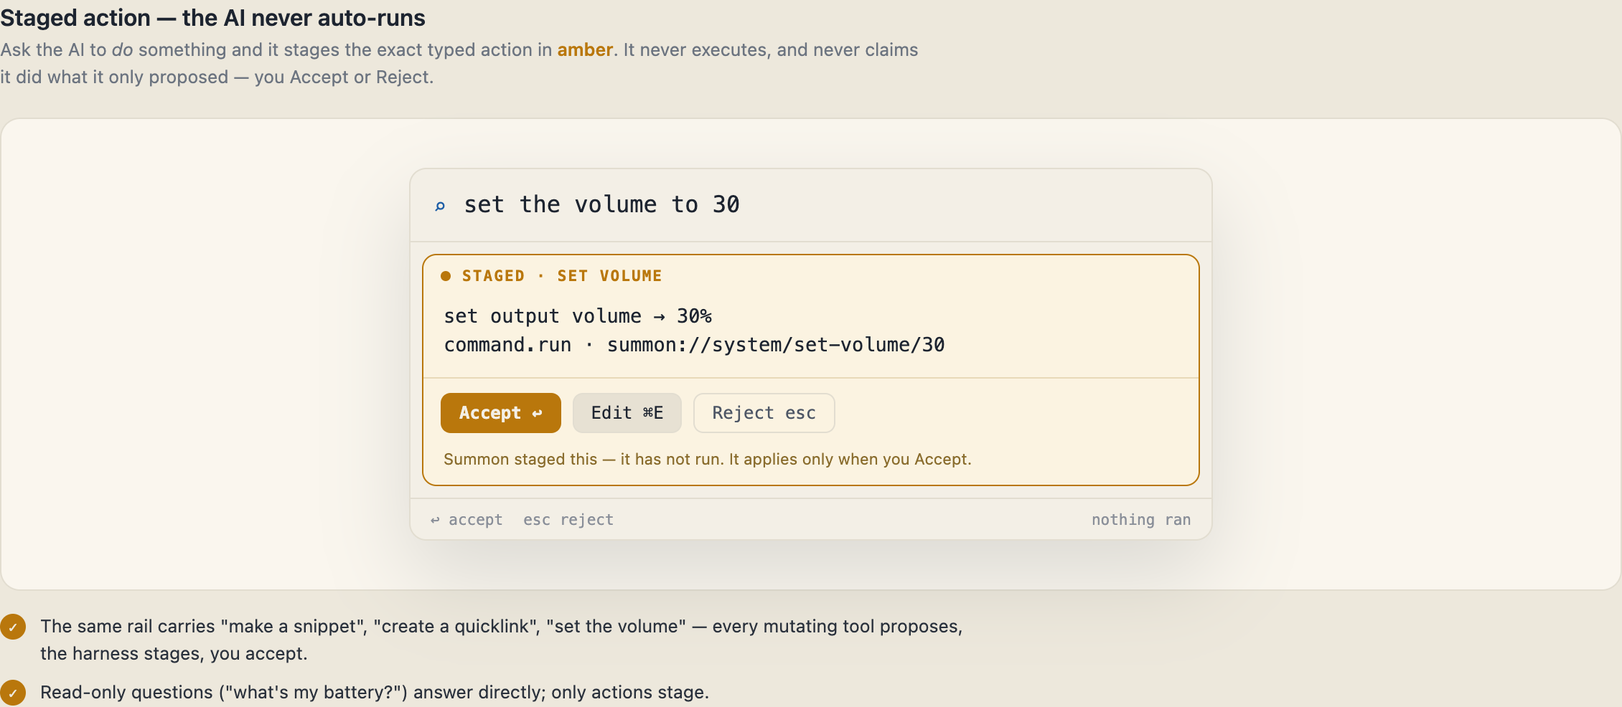
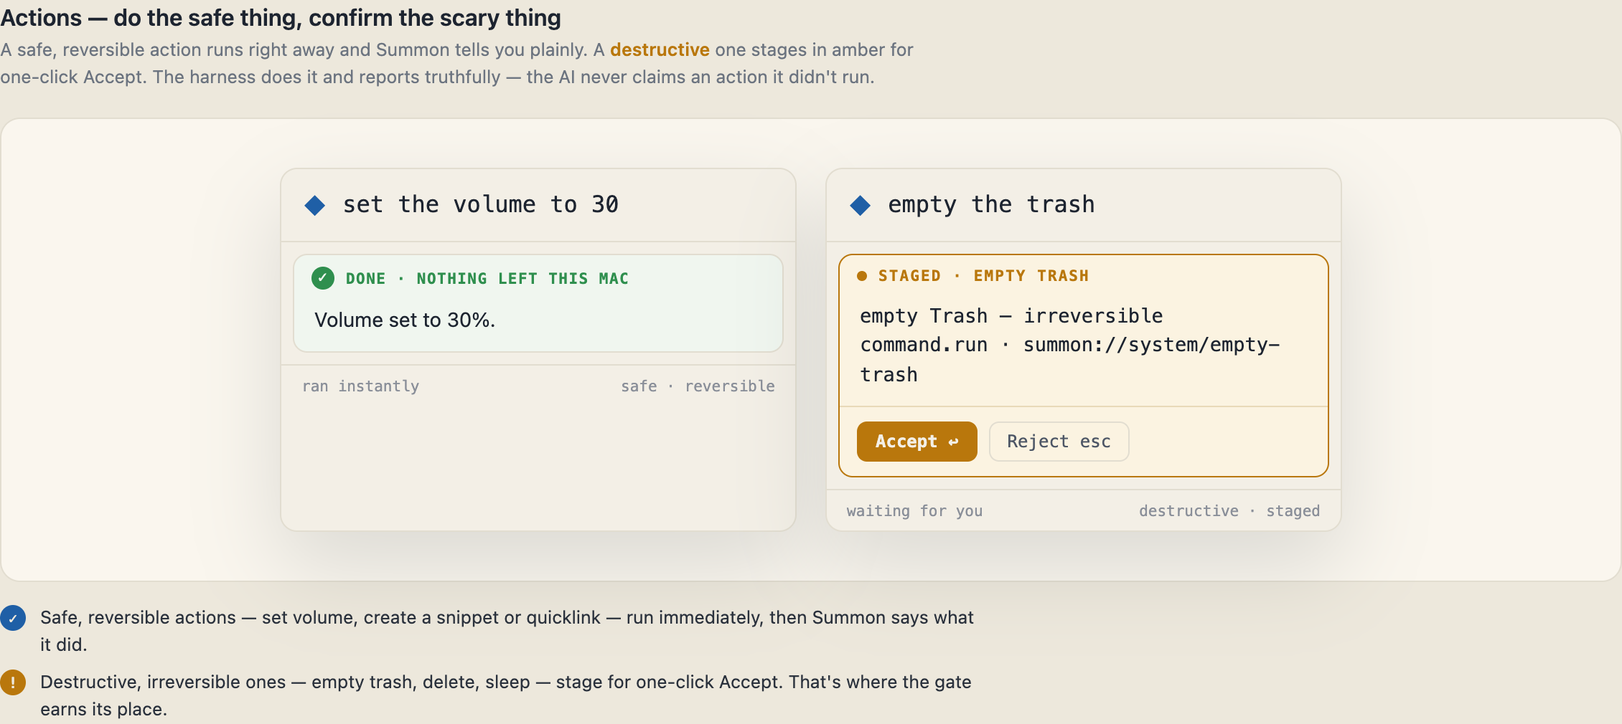
Recognize destructive system actions (empty-trash/sleep/lock) → stage; new messaging
Field report: "empty the bin" / "clear the trash" were web-searched instead of
recognized as a destructive action. The parser only knew volume/snippet/quicklink,
so system commands fell through to search. Adds empty-trash / sleep / lock to the
classifier + parser as destructive effects — they now STAGE (amber Accept), never
search or run.

Also updates the guide + product page to the real "do safe / confirm destructive"
story: safe actions run instantly and report truthfully; destructive ones stage.
The guide's action screen and the hero animation now show both (volume → done,
empty trash → staged).

diff --git a/guide/index.html b/guide/index.html
@@ -65,7 +65,7 @@ footer code{font-family:ui-monospace,Menlo,monospace;color:var(--dim)}
   <div class="hint">Filters live across every screen below.</div>
 </div>
 <nav class="toc"><a href="#launcher">Launcher</a><a href="#ai">On-device AI</a><a href="#search">Search &amp; preferences</a><a href="#clipboard">Clipboard</a><a href="#firstrun">First run &amp; states</a><a href="#extend">Extend &amp; automate</a><a href="#design">Design</a></nav>
-<main><section id="launcher" class="group"><h2>Launcher</h2><p class="intro">The compact ⌥Space bar and its results — the front door.</p><div class="grid"><figure class="card" data-search="launcher &amp; results ⌥space opens the bar — type to fuzzy-match apps, files, calculator, unit conversion, snippets, emoji and more. ↑↓ to navigate, ↩ to run, ⌘k for actions. launcher-fuzzy"><img loading="lazy" src="screenshots/launcher-fuzzy.png" alt="Launcher &amp; results"><figcaption><h3>Launcher &amp; results</h3><p>⌥Space opens the bar — type to fuzzy-match apps, files, calculator, unit conversion, snippets, emoji and more. ↑↓ to navigate, ↩ to run, ⌘K for actions.</p></figcaption></figure><figure class="card" data-search="alt-tab switcher a launcher-native window switcher — running apps, filtered as you type, focused with a keystroke. alttab"><img loading="lazy" src="screenshots/alttab.png" alt="Alt-tab switcher"><figcaption><h3>Alt-tab switcher</h3><p>A launcher-native window switcher — running apps, filtered as you type, focused with a keystroke.</p></figcaption></figure></div></section><section id="ai" class="group"><h2>On-device AI</h2><p class="intro">Answers on your Mac; actions staged for one-click Accept, never auto-run. A question can be answered on-device or by searching the web — a keyless Wikipedia floor, or your own SearXNG — and only your query ever leaves.</p><div class="grid"><figure class="card" data-search="staged action — never auto-run ask the ai to do something (&#x27;set the volume to 30&#x27;, &#x27;make a snippet&#x27;) and it stages the exact typed action in amber. it never executes, and never claims it did what it only proposed — you accept or reject. staged-volume"><img loading="lazy" src="screenshots/staged-volume.png" alt="Staged action — never auto-run"><figcaption><h3>Staged action — never auto-run</h3><p>Ask the AI to do something (&#x27;set the volume to 30&#x27;, &#x27;make a snippet&#x27;) and it stages the exact typed action in amber. It never executes, and never claims it did what it only proposed — you Accept or Reject.</p></figcaption></figure><figure class="card" data-search="answer vs. action — staged ask the on-device ai to do something (&#x27;make a snippet&#x27;, &#x27;set the volume to 30&#x27;) and it stages in amber for you to accept or reject. summon never auto-runs an ai action, and never claims it did one it only proposed. launcher-staged"><img loading="lazy" src="screenshots/launcher-staged.png" alt="Answer vs. action — staged"><figcaption><h3>Answer vs. action — staged</h3><p>Ask the on-device AI to do something (&#x27;make a snippet&#x27;, &#x27;set the volume to 30&#x27;) and it stages in amber for you to Accept or Reject. Summon never auto-runs an AI action, and never claims it did one it only proposed.</p></figcaption></figure><figure class="card" data-search="web search &amp; answer ask a question and summon can search the web — a keyless wikipedia floor by default, or your own searxng — then compose the answer on-device. only your query leaves, and the first search asks permission. web-search"><img loading="lazy" src="screenshots/web-search.png" alt="Web search &amp; answer"><figcaption><h3>Web search &amp; answer</h3><p>Ask a question and Summon can search the web — a keyless Wikipedia floor by default, or your own SearXNG — then compose the answer on-device. Only your query leaves, and the first search asks permission.</p></figcaption></figure><figure class="card" data-search="the ai ladder summon detects the best available on-device model — apple foundation models first — and states the rung honestly. it is detected, never configured. ai-ladder"><img loading="lazy" src="screenshots/ai-ladder.png" alt="The AI ladder"><figcaption><h3>The AI ladder</h3><p>Summon detects the best available on-device model — Apple Foundation Models first — and states the rung honestly. It is detected, never configured.</p></figcaption></figure><figure class="card" data-search="quick fix — rewrite in place hand selected text to the on-device model; the rewrite is staged for review before it replaces anything. quickfix"><img loading="lazy" src="screenshots/quickfix.png" alt="Quick Fix — rewrite in place"><figcaption><h3>Quick Fix — rewrite in place</h3><p>Hand selected text to the on-device model; the rewrite is staged for review before it replaces anything.</p></figcaption></figure><figure class="card" data-search="degraded, still working with no ai model available, search still works; the strip says so plainly, and ai returns the moment a rung is detected. launcher-degraded"><img loading="lazy" src="screenshots/launcher-degraded.png" alt="Degraded, still working"><figcaption><h3>Degraded, still working</h3><p>With no AI model available, search still works; the strip says so plainly, and AI returns the moment a rung is detected.</p></figcaption></figure></div></section><section id="search" class="group"><h2>Search &amp; preferences</h2><p class="intro">Web search on by default; local-first or web-first for a question, your call.</p><div class="grid"><figure class="card" data-search="search preferences web search is on by default; you choose whether a question leads with a local answer or a web search. a persisted choice always wins, and the first web search still asks permission. search-preferences"><img loading="lazy" src="screenshots/search-preferences.png" alt="Search preferences"><figcaption><h3>Search preferences</h3><p>Web search is on by default; you choose whether a question leads with a local answer or a web search. A persisted choice always wins, and the first web search still asks permission.</p></figcaption></figure></div></section><section id="clipboard" class="group"><h2>Clipboard</h2><p class="intro">Local clipboard history, private by default.</p><div class="grid"><figure class="card" data-search="clipboard history ⌥⇧c opens local clipboard history — text, images, html and rtf, all on this mac, with an ignore list for sensitive apps. clipboard"><img loading="lazy" src="screenshots/clipboard.png" alt="Clipboard history"><figcaption><h3>Clipboard history</h3><p>⌥⇧C opens local clipboard history — text, images, HTML and RTF, all on this Mac, with an ignore list for sensitive apps.</p></figcaption></figure></div></section><section id="firstrun" class="group"><h2>First run &amp; states</h2><p class="intro">What a new user sees, and how Summon stays honest when there is nothing — or something is wrong.</p><div class="grid"><figure class="card" data-search="first run — the empty state a brand-new, zero-data summon: the bar is ready before you&#x27;ve added anything, so nothing feels broken on day one. launcher-empty"><img loading="lazy" src="screenshots/launcher-empty.png" alt="First run — the empty state"><figcaption><h3>First run — the empty state</h3><p>A brand-new, zero-data Summon: the bar is ready before you&#x27;ve added anything, so nothing feels broken on day one.</p></figcaption></figure><figure class="card" data-search="empty · error · degraded the honest state gallery — how summon looks when there is nothing to show, something failed, or the ai is unavailable. states-gallery"><img loading="lazy" src="screenshots/states-gallery.png" alt="Empty · error · degraded"><figcaption><h3>Empty · error · degraded</h3><p>The honest state gallery — how Summon looks when there is nothing to show, something failed, or the AI is unavailable.</p></figcaption></figure></div></section><section id="extend" class="group"><h2>Extend &amp; automate</h2><p class="intro">The agent face, and the (deferred) extension surface.</p><div class="grid"><figure class="card" data-search="the agent face — cli + socket the same core behind a second door: a local cli and a default-off unix socket. every mutating action is journaled with actor= and staged for review, never auto-applied. agent-face"><img loading="lazy" src="screenshots/agent-face.png" alt="The agent face — CLI + socket"><figcaption><h3>The agent face — CLI + socket</h3><p>The same core behind a second door: a local CLI and a default-off UNIX socket. Every mutating action is journaled with actor= and staged for review, never auto-applied.</p></figcaption></figure><figure class="card" data-search="extension permissions every extension capability is an explicit, reviewable grant — no ambient access. (extensions are a development surface, not shipped in v0.6.) ext-permissions"><img loading="lazy" src="screenshots/ext-permissions.png" alt="Extension permissions"><figcaption><h3>Extension permissions</h3><p>Every extension capability is an explicit, reviewable grant — no ambient access. (Extensions are a development surface, not shipped in v0.6.)</p></figcaption></figure></div></section><section id="design" class="group"><h2>Design</h2><p class="intro">The tokens the product — and this guide — are built from.</p><div class="grid"><figure class="card" data-search="design language the dark-glass palette, accent, and type scale the whole app is built from — the same tokens theme this guide. design-tokens"><img loading="lazy" src="screenshots/design-tokens.png" alt="Design language"><figcaption><h3>Design language</h3><p>The dark-glass palette, accent, and type scale the whole app is built from — the same tokens theme this guide.</p></figcaption></figure></div></section><p id="nomatch" class="nomatch" hidden>No matching screens.</p></main>
+<main><section id="launcher" class="group"><h2>Launcher</h2><p class="intro">The compact ⌥Space bar and its results — the front door.</p><div class="grid"><figure class="card" data-search="launcher &amp; results ⌥space opens the bar — type to fuzzy-match apps, files, calculator, unit conversion, snippets, emoji and more. ↑↓ to navigate, ↩ to run, ⌘k for actions. launcher-fuzzy"><img loading="lazy" src="screenshots/launcher-fuzzy.png" alt="Launcher &amp; results"><figcaption><h3>Launcher &amp; results</h3><p>⌥Space opens the bar — type to fuzzy-match apps, files, calculator, unit conversion, snippets, emoji and more. ↑↓ to navigate, ↩ to run, ⌘K for actions.</p></figcaption></figure><figure class="card" data-search="alt-tab switcher a launcher-native window switcher — running apps, filtered as you type, focused with a keystroke. alttab"><img loading="lazy" src="screenshots/alttab.png" alt="Alt-tab switcher"><figcaption><h3>Alt-tab switcher</h3><p>A launcher-native window switcher — running apps, filtered as you type, focused with a keystroke.</p></figcaption></figure></div></section><section id="ai" class="group"><h2>On-device AI</h2><p class="intro">Answers on your Mac; actions staged for one-click Accept, never auto-run. A question can be answered on-device or by searching the web — a keyless Wikipedia floor, or your own SearXNG — and only your query ever leaves.</p><div class="grid"><figure class="card" data-search="actions — safe runs, destructive confirms ask summon to do something and it runs the safe, reversible ones instantly (&#x27;volume set to 30%&#x27;), while destructive ones (empty trash, delete) stage for one-click accept. the harness acts and reports truthfully — the ai never claims an action it didn&#x27;t run. staged-volume"><img loading="lazy" src="screenshots/staged-volume.png" alt="Actions — safe runs, destructive confirms"><figcaption><h3>Actions — safe runs, destructive confirms</h3><p>Ask Summon to do something and it runs the safe, reversible ones instantly (&#x27;Volume set to 30%&#x27;), while destructive ones (empty trash, delete) stage for one-click Accept. The harness acts and reports truthfully — the AI never claims an action it didn&#x27;t run.</p></figcaption></figure><figure class="card" data-search="answer vs. action — staged ask the on-device ai to do something (&#x27;make a snippet&#x27;, &#x27;set the volume to 30&#x27;) and it stages in amber for you to accept or reject. summon never auto-runs an ai action, and never claims it did one it only proposed. launcher-staged"><img loading="lazy" src="screenshots/launcher-staged.png" alt="Answer vs. action — staged"><figcaption><h3>Answer vs. action — staged</h3><p>Ask the on-device AI to do something (&#x27;make a snippet&#x27;, &#x27;set the volume to 30&#x27;) and it stages in amber for you to Accept or Reject. Summon never auto-runs an AI action, and never claims it did one it only proposed.</p></figcaption></figure><figure class="card" data-search="web search &amp; answer ask a question and summon can search the web — a keyless wikipedia floor by default, or your own searxng — then compose the answer on-device. only your query leaves, and the first search asks permission. web-search"><img loading="lazy" src="screenshots/web-search.png" alt="Web search &amp; answer"><figcaption><h3>Web search &amp; answer</h3><p>Ask a question and Summon can search the web — a keyless Wikipedia floor by default, or your own SearXNG — then compose the answer on-device. Only your query leaves, and the first search asks permission.</p></figcaption></figure><figure class="card" data-search="the ai ladder summon detects the best available on-device model — apple foundation models first — and states the rung honestly. it is detected, never configured. ai-ladder"><img loading="lazy" src="screenshots/ai-ladder.png" alt="The AI ladder"><figcaption><h3>The AI ladder</h3><p>Summon detects the best available on-device model — Apple Foundation Models first — and states the rung honestly. It is detected, never configured.</p></figcaption></figure><figure class="card" data-search="quick fix — rewrite in place hand selected text to the on-device model; the rewrite is staged for review before it replaces anything. quickfix"><img loading="lazy" src="screenshots/quickfix.png" alt="Quick Fix — rewrite in place"><figcaption><h3>Quick Fix — rewrite in place</h3><p>Hand selected text to the on-device model; the rewrite is staged for review before it replaces anything.</p></figcaption></figure><figure class="card" data-search="degraded, still working with no ai model available, search still works; the strip says so plainly, and ai returns the moment a rung is detected. launcher-degraded"><img loading="lazy" src="screenshots/launcher-degraded.png" alt="Degraded, still working"><figcaption><h3>Degraded, still working</h3><p>With no AI model available, search still works; the strip says so plainly, and AI returns the moment a rung is detected.</p></figcaption></figure></div></section><section id="search" class="group"><h2>Search &amp; preferences</h2><p class="intro">Web search on by default; local-first or web-first for a question, your call.</p><div class="grid"><figure class="card" data-search="search preferences web search is on by default; you choose whether a question leads with a local answer or a web search. a persisted choice always wins, and the first web search still asks permission. search-preferences"><img loading="lazy" src="screenshots/search-preferences.png" alt="Search preferences"><figcaption><h3>Search preferences</h3><p>Web search is on by default; you choose whether a question leads with a local answer or a web search. A persisted choice always wins, and the first web search still asks permission.</p></figcaption></figure></div></section><section id="clipboard" class="group"><h2>Clipboard</h2><p class="intro">Local clipboard history, private by default.</p><div class="grid"><figure class="card" data-search="clipboard history ⌥⇧c opens local clipboard history — text, images, html and rtf, all on this mac, with an ignore list for sensitive apps. clipboard"><img loading="lazy" src="screenshots/clipboard.png" alt="Clipboard history"><figcaption><h3>Clipboard history</h3><p>⌥⇧C opens local clipboard history — text, images, HTML and RTF, all on this Mac, with an ignore list for sensitive apps.</p></figcaption></figure></div></section><section id="firstrun" class="group"><h2>First run &amp; states</h2><p class="intro">What a new user sees, and how Summon stays honest when there is nothing — or something is wrong.</p><div class="grid"><figure class="card" data-search="first run — the empty state a brand-new, zero-data summon: the bar is ready before you&#x27;ve added anything, so nothing feels broken on day one. launcher-empty"><img loading="lazy" src="screenshots/launcher-empty.png" alt="First run — the empty state"><figcaption><h3>First run — the empty state</h3><p>A brand-new, zero-data Summon: the bar is ready before you&#x27;ve added anything, so nothing feels broken on day one.</p></figcaption></figure><figure class="card" data-search="empty · error · degraded the honest state gallery — how summon looks when there is nothing to show, something failed, or the ai is unavailable. states-gallery"><img loading="lazy" src="screenshots/states-gallery.png" alt="Empty · error · degraded"><figcaption><h3>Empty · error · degraded</h3><p>The honest state gallery — how Summon looks when there is nothing to show, something failed, or the AI is unavailable.</p></figcaption></figure></div></section><section id="extend" class="group"><h2>Extend &amp; automate</h2><p class="intro">The agent face, and the (deferred) extension surface.</p><div class="grid"><figure class="card" data-search="the agent face — cli + socket the same core behind a second door: a local cli and a default-off unix socket. every mutating action is journaled with actor= and staged for review, never auto-applied. agent-face"><img loading="lazy" src="screenshots/agent-face.png" alt="The agent face — CLI + socket"><figcaption><h3>The agent face — CLI + socket</h3><p>The same core behind a second door: a local CLI and a default-off UNIX socket. Every mutating action is journaled with actor= and staged for review, never auto-applied.</p></figcaption></figure><figure class="card" data-search="extension permissions every extension capability is an explicit, reviewable grant — no ambient access. (extensions are a development surface, not shipped in v0.6.) ext-permissions"><img loading="lazy" src="screenshots/ext-permissions.png" alt="Extension permissions"><figcaption><h3>Extension permissions</h3><p>Every extension capability is an explicit, reviewable grant — no ambient access. (Extensions are a development surface, not shipped in v0.6.)</p></figcaption></figure></div></section><section id="design" class="group"><h2>Design</h2><p class="intro">The tokens the product — and this guide — are built from.</p><div class="grid"><figure class="card" data-search="design language the dark-glass palette, accent, and type scale the whole app is built from — the same tokens theme this guide. design-tokens"><img loading="lazy" src="screenshots/design-tokens.png" alt="Design language"><figcaption><h3>Design language</h3><p>The dark-glass palette, accent, and type scale the whole app is built from — the same tokens theme this guide.</p></figcaption></figure></div></section><p id="nomatch" class="nomatch" hidden>No matching screens.</p></main>
 <footer>
   Generated from <code>docs/summon-ux-reference-006.html</code> · edit
   <code>guide/build_index.py</code> + <code>guide/capture.py</code> and run

diff --git a/index.html b/index.html
@@ -59,6 +59,12 @@
   .mbtn{font:12px ui-monospace,monospace;padding:6px 12px;border-radius:7px;border:1px solid var(--hairline);color:var(--text);background:var(--surface)}
   .mbtn.mpri{background:var(--staged);border-color:var(--staged);color:#F7F3E9;font-weight:600}
   .mbtn.mgh{background:none;color:var(--dim);border-color:transparent}
+  .mdone{margin:6px;border:1px solid var(--hairline);border-radius:11px;background:#EFF6EE}
+  .mdh{display:flex;align-items:center;gap:8px;padding:9px 14px;color:var(--ok);
+    font:600 10.5px ui-monospace,monospace;letter-spacing:.07em;text-transform:uppercase}
+  .mdh .mok{width:16px;height:16px;border-radius:50%;background:var(--ok);color:#EFF6EE;
+    text-align:center;line-height:16px;font-size:11px}
+  .mdbody{padding:0 14px 12px;font-size:14px;color:var(--text)}
   .mans{margin:6px;border:1px solid var(--hairline);border-radius:11px;background:var(--bg)}
   .mah{padding:9px 14px;color:var(--accent);font:600 10.5px ui-monospace,monospace;letter-spacing:.07em;text-transform:uppercase}
   .mabody{padding:0 14px 8px;font-size:13.5px;color:var(--text);line-height:1.5}
@@ -124,7 +130,7 @@
   <p class="intro">A daily-driver launcher with the modern features — and an on-device AI that answers and proposes, but never acts without your word.</p>
   <div class="grid">
     <div class="card"><span class="tag">Launcher</span><h3>Fast, keyboard-first</h3><p>⌥Space to fuzzy-match apps, files, calculator, unit conversion, snippets, quicklinks, emoji, system commands, and window layouts. Select a result, Tab, act on it.</p></div>
-    <div class="card"><span class="tag amb">Staged</span><h3>AI that never auto-runs</h3><p>Ask a question and get an on-device answer. Ask it to <i>do</i> something — "make a snippet", "set the volume to 30" — and it stages in amber for one-click Accept. It never claims it did what it only proposed.</p></div>
+    <div class="card"><span class="tag amb">Actions</span><h3>Do safe, confirm destructive</h3><p>Ask it to <i>do</i> something: the safe, reversible ones run instantly — "set the volume to 30" → done. Destructive ones — empty trash, delete — stage in amber for one-click Accept. It never claims an action it didn't run.</p></div>
     <div class="card"><span class="tag">Web search</span><h3>Answers, your way</h3><p>A keyless Wikipedia floor by default, or point it at your own SearXNG for full web search. Only your query leaves; the answer is composed on this Mac.</p></div>
     <div class="card"><span class="tag">Clipboard</span><h3>Local history</h3><p>⌥⇧C for text, image, HTML, and RTF history — all on this Mac, with an ignore list for sensitive apps.</p></div>
     <div class="card"><span class="tag">Windows</span><h3>Built-in tiling</h3><p>Arrange the focused window with ⌃⌥ and arrows — halves, quarters, thirds, maximize — no separate app.</p></div>
@@ -142,7 +148,7 @@
       <tr><td>Clipboard history</td><td class="us"><span class="yes">✓</span></td><td><span class="yes">✓</span></td><td><span class="yes">✓</span></td><td><span class="yes">✓</span></td><td><span class="part">partial</span></td></tr>
       <tr><td>Window management (built in)</td><td class="us"><span class="yes">✓</span></td><td><span class="yes">✓</span></td><td><span class="no">✗</span></td><td><span class="no">✗</span></td><td><span class="no">✗</span></td></tr>
       <tr><td>On-device AI answers</td><td class="us"><span class="yes">✓</span></td><td><span class="part">cloud</span></td><td><span class="no">✗</span></td><td><span class="no">✗</span></td><td><span class="part">OS-level</span></td></tr>
-      <tr><td>AI actions, staged — never auto-run</td><td class="us"><span class="yes">✓</span></td><td><span class="part">auto</span></td><td><span class="no">✗</span></td><td><span class="no">✗</span></td><td><span class="no">✗</span></td></tr>
+      <tr><td>AI actions — safe run, destructive confirm</td><td class="us"><span class="yes">✓</span></td><td><span class="part">auto</span></td><td><span class="no">✗</span></td><td><span class="no">✗</span></td><td><span class="no">✗</span></td></tr>
       <tr><td>Web search in the launcher</td><td class="us"><span class="yes">✓</span></td><td><span class="part">cloud AI</span></td><td><span class="no">✗</span></td><td><span class="no">✗</span></td><td><span class="no">✗</span></td></tr>
       <tr><td>No account · no telemetry</td><td class="us"><span class="yes">✓</span></td><td><span class="no">✗</span></td><td><span class="yes">✓</span></td><td><span class="yes">✓</span></td><td><span class="yes">✓</span></td></tr>
       <tr class="price"><td>Price</td><td class="us">Free</td><td>Subscription</td><td>One-time</td><td>One-time</td><td>Free (OS)</td></tr>
@@ -171,9 +177,12 @@
       '<div class="mrow"><span class="mic">⌘</span>Arrange in Grid — Finder menu<span class="mk">Menu</span></div>' +
       '<div class="mrow"><span class="mic">≡</span>arrangement-notes.md<span class="mk">File</span></div>' },
     { q: "set the volume to 30", badge: "⌥Space", body:
-      '<div class="mprop"><div class="mph"><span class="mdot"></span>staged · set volume</div>' +
-      '<pre>set output volume → 30%\ncommand.run · summon://system/set-volume/30</pre>' +
-      '<div class="macts"><span class="mbtn mpri">Accept ↩</span><span class="mbtn">Edit ⌘E</span><span class="mbtn mgh">Reject esc</span></div></div>' },
+      '<div class="mdone"><div class="mdh"><span class="mok">✓</span>Done · nothing left this Mac</div>' +
+      '<div class="mdbody">Volume set to 30%.</div></div>' },
+    { q: "empty the trash", badge: "⌥Space", body:
+      '<div class="mprop"><div class="mph"><span class="mdot"></span>staged · empty trash</div>' +
+      '<pre>empty Trash — irreversible\ncommand.run · summon://system/empty-trash</pre>' +
+      '<div class="macts"><span class="mbtn mpri">Accept ↩</span><span class="mbtn mgh">Reject esc</span></div></div>' },
     { q: "capital of australia", badge: "⌥Space", body:
       '<div class="mrow msel"><span class="mic">🌐</span>Search the web &amp; answer<span class="mk">only your query leaves</span></div>' +
       '<div class="mans"><div class="mah">Answer · on-device · query sent to the web</div>' +

diff --git a/guide/supplement.html b/guide/supplement.html
@@ -58,6 +58,13 @@
   .btn.pri{background:var(--staged);border-color:var(--staged);color:#F3EFE6;font-weight:600}
   .btn.ghost{background:none;color:var(--dim)}
   .hint{padding:0 14px 10px;color:#8A6D2E;font-size:11px}
+  /* done result card (a safe action that ran) */
+  .done{margin:8px;border:1px solid var(--hairline);border-radius:10px;background:#F0F6EF}
+  .done .dh{display:flex;align-items:center;gap:8px;padding:8px 12px;color:var(--ok);
+    font:600 10.5px ui-monospace,monospace;letter-spacing:.07em;text-transform:uppercase}
+  .done .dh .ok{width:16px;height:16px;border-radius:50%;background:var(--ok);color:#F0F6EF;
+    text-align:center;font-size:11px;line-height:16px}
+  .done .dbody{padding:2px 14px 12px;color:var(--text);font-size:14px}
   /* preferences sheet */
   .sheet{width:460px;max-width:100%;background:var(--surface);border:1px solid var(--hairline);
     border-radius:14px;padding:22px}
@@ -79,7 +86,7 @@
 <div class="wrap">
 <nav id="nav">
   <button data-s="websearch" class="on">web search</button>
-  <button data-s="volume">staged action</button>
+  <button data-s="volume">actions</button>
   <button data-s="prefs">search preferences</button>
 </nav>
 <main>
@@ -107,24 +114,31 @@
   </section>
 
   <section id="volume">
-    <h2>Staged action — the AI never auto-runs</h2>
-    <div class="rule">Ask the AI to <i>do</i> something and it stages the exact typed action in <b>amber</b>. It never executes, and never claims it did what it only proposed — you Accept or Reject.</div>
-    <div class="stage">
-      <div class="panel">
-        <div class="qrow"><span class="glyph">⌕</span><input value="set the volume to 30" readonly></div>
-        <div class="prop">
-          <div class="ph"><span class="dot"></span>staged · set volume</div>
-          <pre>set output volume → 30%
-command.run · summon://system/set-volume/30</pre>
-          <div class="acts"><button class="btn pri">Accept ↩</button><button class="btn">Edit ⌘E</button><button class="btn ghost">Reject esc</button></div>
-          <div class="hint">Summon staged this — it has not run. It applies only when you Accept.</div>
+    <h2>Actions — do the safe thing, confirm the scary thing</h2>
+    <div class="rule">A safe, reversible action runs right away and Summon tells you plainly. A <b>destructive</b> one stages in amber for one-click Accept. The harness does it and reports truthfully — the AI never claims an action it didn't run.</div>
+    <div class="stage" style="gap:20px;flex-wrap:wrap">
+      <div class="panel" style="width:360px">
+        <div class="qrow"><span class="glyph">◆</span><input value="set the volume to 30" readonly></div>
+        <div class="done">
+          <div class="dh"><span class="ok">✓</span>Done · nothing left this Mac</div>
+          <div class="dbody">Volume set to 30%.</div>
         </div>
-        <div class="foot"><span>↩ accept</span><span>esc reject</span><span class="ver">nothing ran</span></div>
+        <div class="foot"><span>ran instantly</span><span class="ver">safe · reversible</span></div>
+      </div>
+      <div class="panel" style="width:360px">
+        <div class="qrow"><span class="glyph">◆</span><input value="empty the trash" readonly></div>
+        <div class="prop">
+          <div class="ph"><span class="dot"></span>staged · empty trash</div>
+          <pre>empty Trash — irreversible
+command.run · summon://system/empty-trash</pre>
+          <div class="acts"><button class="btn pri">Accept ↩</button><button class="btn ghost">Reject esc</button></div>
+        </div>
+        <div class="foot"><span>waiting for you</span><span class="ver">destructive · staged</span></div>
       </div>
     </div>
     <div class="notes">
-      <div class="note"><span class="pin amb">✓</span>The same rail carries "make a snippet", "create a quicklink", "set the volume" — every mutating tool proposes, the harness stages, you accept.</div>
-      <div class="note"><span class="pin amb">✓</span>Read-only questions ("what's my battery?") answer directly; only actions stage.</div>
+      <div class="note"><span class="pin">✓</span>Safe, reversible actions — set volume, create a snippet or quicklink — run immediately, then Summon says what it did.</div>
+      <div class="note"><span class="pin amb">!</span>Destructive, irreversible ones — empty trash, delete, sleep — stage for one-click Accept. That's where the gate earns its place.</div>
     </div>
   </section>
 

diff --git a/Tests/SummonAITests/MutatingToolsTests.swift b/Tests/SummonAITests/MutatingToolsTests.swift
@@ -101,6 +101,35 @@ final class MutatingToolsTests: XCTestCase {
         XCTAssertTrue(try core.snippets.all().isEmpty)
     }
 
+    func testTrashSynonymsClassifyAndParseAsEmptyTrash() {
+        // Field report: "empty the bin" / "clear the trash" were web-searched.
+        for query in ["empty the trash", "empty the bin", "clear the trash", "empty trash"] {
+            XCTAssertTrue(
+                SystemReaders.mutatingIntents(for: query).contains(.emptyTrash),
+                "not classified as an action: \(query)"
+            )
+            XCTAssertNotNil(SummonActionParser.parse(query), "no action parsed for: \(query)")
+        }
+    }
+
+    func testDestructiveSystemActionStagesNeverRuns() async throws {
+        let action = try XCTUnwrap(SummonActionParser.parse("empty the trash"))
+        guard case let .moduleRun(_, _, path, _) = action else {
+            return XCTFail("expected moduleRun")
+        }
+        XCTAssertEqual(path, "summon://system/empty-trash")
+        XCTAssertTrue(DestructiveGuard.isDestructive(action), "empty-trash must be destructive")
+
+        let ladder = AILadder.testing(fake: FakeModelRung())
+        let core = try SummonCore.inMemory(appSearchPaths: [])
+        let service = SummonAIService(ladder: ladder, core: core)
+        let response = try await service.respond(prompt: "empty the trash", actor: .user)
+        guard case .staged = response.kind else {
+            return XCTFail("expected staged, got \(response.kind)")
+        }
+        XCTAssertEqual(try core.staged.list(state: "staged").count, 1)
+    }
+
     func testSetVolumeClassifiesAsSafeNotDestructive() {
         // The whole point of "do safe / stage destructive": volume runs, sleep stages.
         let setVolume = SummonActionParser.parse("set the volume to 30")!

diff --git a/Sources/SummonAI/MutatingTools.swift b/Sources/SummonAI/MutatingTools.swift
@@ -9,6 +9,11 @@ public enum MutatingToolIntent: String, Sendable, Hashable, CaseIterable {
     case createSnippet
     case createQuicklink
     case setVolume
+    // Destructive/disruptive system effects — recognized so they stage (amber Accept),
+    // never fall through to a web search.
+    case emptyTrash
+    case sleepMac
+    case lockScreen
 }
 
 extension SystemReaders {
@@ -36,6 +41,18 @@ extension SystemReaders {
         // "turn up the volume" with no number invites nothing.
         if q.contains("volume"), q.contains(where: \.isNumber) {
             result.insert(.setVolume)
+        }
+        // Destructive/disruptive system effects (their own verbs, no create verb needed).
+        let clearVerb = q.contains("empty") || q.contains("clear")
+        if clearVerb, q.contains("trash") || q.contains("bin") {
+            result.insert(.emptyTrash)
+        }
+        if q.contains("sleep"),
+           q.contains("mac") || q.contains("computer") || q.hasPrefix("sleep") || q.contains("go to sleep") {
+            result.insert(.sleepMac)
+        }
+        if q.contains("lock"), q.contains("screen") || q.contains("mac") || q.contains("computer") {
+            result.insert(.lockScreen)
         }
         return result
     }

diff --git a/Sources/SummonAI/SummonActionParser.swift b/Sources/SummonAI/SummonActionParser.swift
@@ -24,7 +24,22 @@ public enum SummonActionParser {
         if intents.contains(.createQuicklink), let (name, url) = quicklinkFields(query) {
             return .quicklinkUpsert(id: UUID().uuidString, name: name, url: url, keyword: nil)
         }
+        if intents.contains(.emptyTrash) { return systemEffect("empty-trash", title: "Empty Trash") }
+        if intents.contains(.sleepMac) { return systemEffect("sleep", title: "Sleep") }
+        if intents.contains(.lockScreen) { return systemEffect("lock", title: "Lock Screen") }
         return nil
+    }
+
+    /// A fixed system effect (empty-trash / sleep / lock) as a `command.run` module
+    /// action. These are destructive/disruptive, so the harness stages them.
+    private static func systemEffect(_ name: String, title: String) -> CoreAction {
+        let url = "summon://system/\(name)"
+        return .moduleRun(
+            name: "command.run",
+            targetID: "command:\(name)",
+            path: url,
+            payload: ["url": .string(url), "title": .string(title)]
+        )
     }
 
     // MARK: - Field extraction

diff --git a/guide/build_index.py b/guide/build_index.py
@@ -84,10 +84,11 @@ CAPTIONS = {
         "query leaves, and the first search asks permission.",
     ),
     "staged-volume": (
-        "Staged action — never auto-run",
-        "Ask the AI to do something ('set the volume to 30', 'make a snippet') and it "
-        "stages the exact typed action in amber. It never executes, and never claims "
-        "it did what it only proposed — you Accept or Reject.",
+        "Actions — safe runs, destructive confirms",
+        "Ask Summon to do something and it runs the safe, reversible ones instantly "
+        "('Volume set to 30%'), while destructive ones (empty trash, delete) stage for "
+        "one-click Accept. The harness acts and reports truthfully — the AI never "
+        "claims an action it didn't run.",
     ),
     "search-preferences": (
         "Search preferences",

diff --git a/guide/CAPTURE-LOG.md b/guide/CAPTURE-LOG.md
@@ -15,5 +15,5 @@
 - design-tokens: ok (summon-ux-reference-006.html#tokens, mode=-, html_len=2067)
 - agent-face: ok (summon-ux-reference-006.html#agent, mode=-, html_len=1428)
 - web-search: ok (supplement.html#websearch, mode=-, html_len=1574)
-- staged-volume: ok (supplement.html#volume, mode=-, html_len=1412)
+- staged-volume: ok (supplement.html#volume, mode=-, html_len=1856)
 - search-preferences: ok (supplement.html#prefs, mode=-, html_len=1281)
